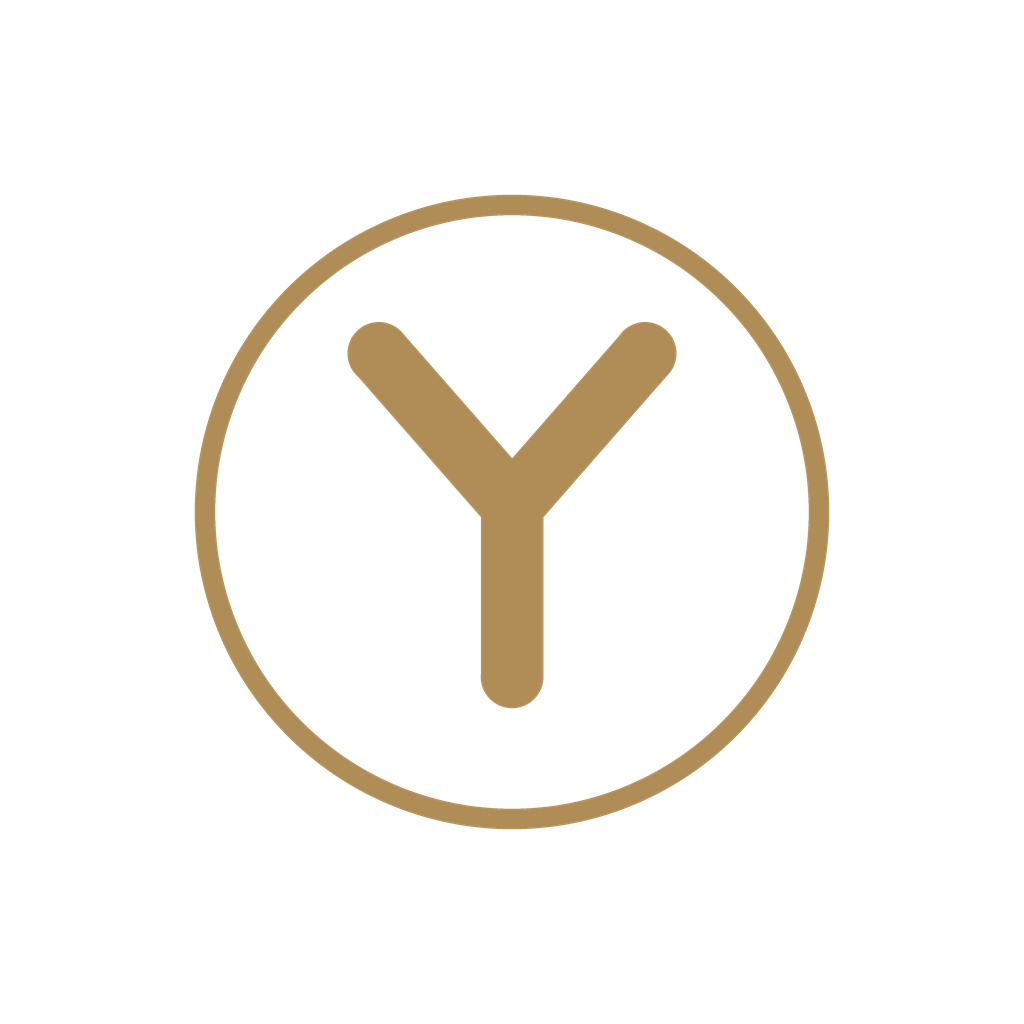
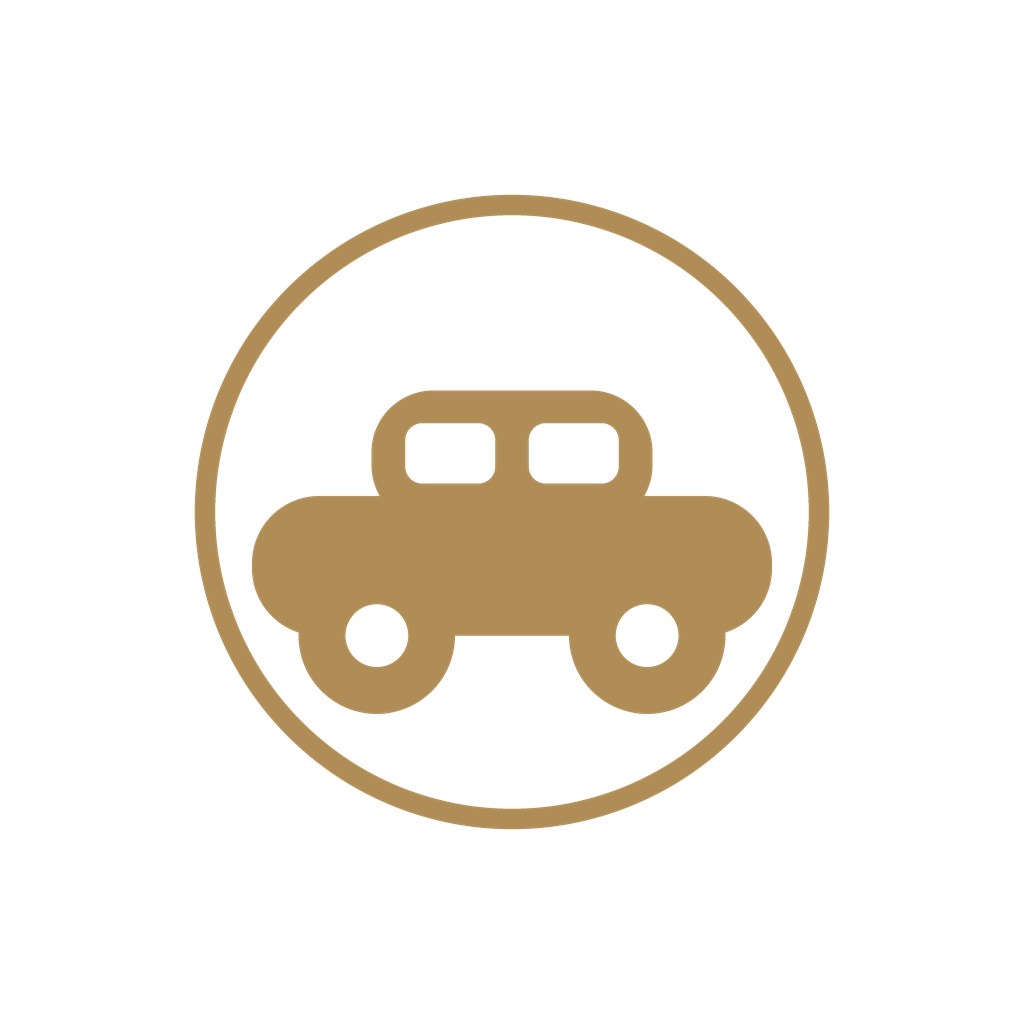
Redesign the YoCabs mark as a cab silhouette instead of the "Y" fork
A car reads instantly as "ride-hailing" at a glance, on the app icon,
splash, notification icon and every in-app logo placement, where the
old abstract fork needed a second look.

Changed region(s): [[0.2188, 0.3125, 0.7812, 0.7188]]

diff --git a/apps/mobile/scripts/generate-assets.py b/apps/mobile/scripts/generate-assets.py
@@ -18,7 +18,8 @@ CLEAR = (0, 0, 0, 0)
 
 # ---------------------------------------------------------------- logo
 def mark(size, colour=GOLD, background=None, ring=True, scale=1.0):
-    """A ring and a bold "Y" whose arms open like a road forking. Drawn 4x and shrunk to smooth it."""
+    """A ring and a simple side-on cab silhouette, wheels and windows cut through to whatever
+    is behind. Drawn 4x and shrunk to smooth it."""
     big = size * 4
     image = Image.new('RGBA', (big, big), background or CLEAR)
     draw = ImageDraw.Draw(image)
@@ -33,20 +34,55 @@ def mark(size, colour=GOLD, background=None, ring=True, scale=1.0):
             outline=colour, width=width,
         )
 
-    stroke = int(big * 0.085 * scale)
-    top = centre - radius * 0.50
-    fork = centre - radius * 0.02
-    bottom = centre + radius * 0.52
-    spread = radius * 0.42
+    body_w = radius * 1.64
+    body_h = radius * 0.44
+    body_top = centre - radius * 0.05
+    body_bottom = body_top + body_h
+    body_left = centre - body_w / 2
+    body_right = centre + body_w / 2
 
-    def line(a, b):
-        draw.line([a, b], fill=colour, width=stroke)
-        for x, y in (a, b):
-            draw.ellipse([x - stroke / 2, y - stroke / 2, x + stroke / 2, y + stroke / 2], fill=colour)
+    cabin_w = body_w * 0.54
+    cabin_h = body_h * 1.05
+    cabin_left = centre - cabin_w / 2
+    cabin_right = centre + cabin_w / 2
+    cabin_top = body_top - cabin_h * 0.72
+    cabin_bottom = body_top + body_h * 0.22
 
-    line((centre - spread, top), (centre, fork))
-    line((centre + spread, top), (centre, fork))
-    line((centre, fork), (centre, bottom))
+    # cabin, drawn first so the body's straight top edge overlaps its base seamlessly
+    draw.rounded_rectangle(
+        [cabin_left, cabin_top, cabin_right, cabin_bottom],
+        radius=cabin_h * 0.42, fill=colour,
+    )
+
+    # body
+    draw.rounded_rectangle(
+        [body_left, body_top, body_right, body_bottom],
+        radius=body_h * 0.48, fill=colour,
+    )
+
+    # windows, cut through the cabin
+    window_h = (cabin_bottom - cabin_top) * 0.44
+    window_top = cabin_top + (cabin_bottom - cabin_top) * 0.24
+    gap = cabin_w * 0.12
+    win_w = (cabin_w - gap * 3) / 2
+    for wx in (cabin_left + gap, cabin_right - gap - win_w):
+        draw.rounded_rectangle(
+            [wx, window_top, wx + win_w, window_top + window_h],
+            radius=window_h * 0.28, fill=CLEAR,
+        )
+
+    # wheels, straddling the body's bottom edge
+    wheel_r = body_h * 0.56
+    for wx in (body_left + body_w * 0.24, body_right - body_w * 0.24):
+        draw.ellipse(
+            [wx - wheel_r, body_bottom - wheel_r, wx + wheel_r, body_bottom + wheel_r],
+            fill=colour,
+        )
+        hub_r = wheel_r * 0.4
+        draw.ellipse(
+            [wx - hub_r, body_bottom - hub_r, wx + hub_r, body_bottom + hub_r],
+            fill=CLEAR,
+        )
 
     return image.resize((size, size), Image.LANCZOS)
 
